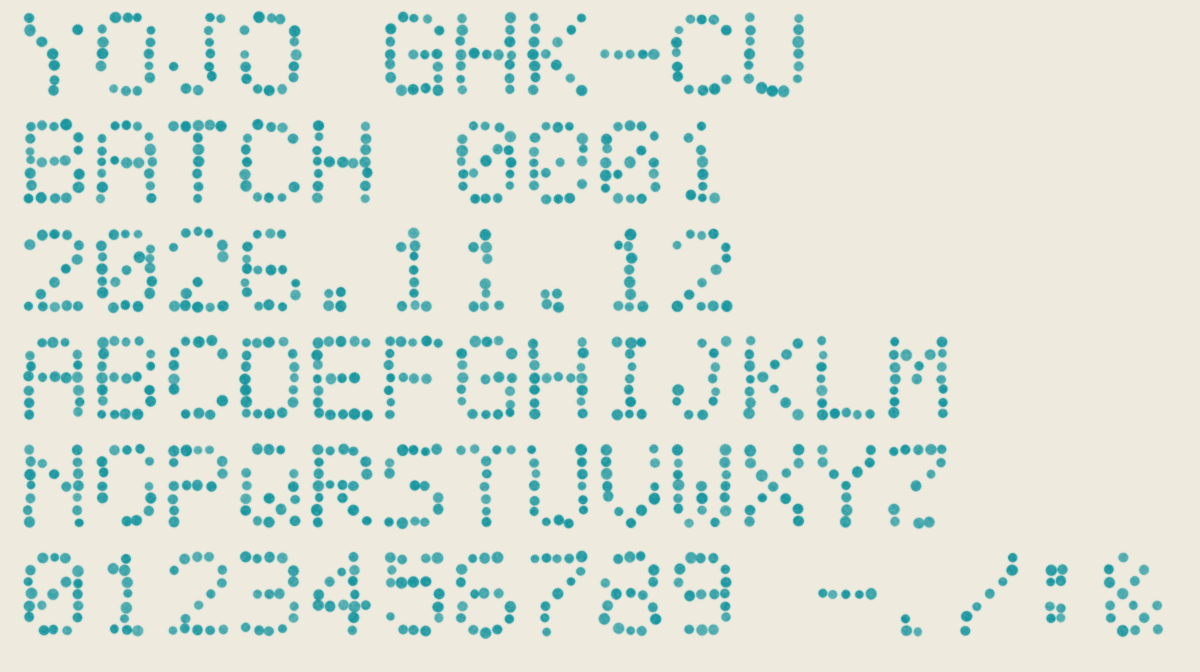
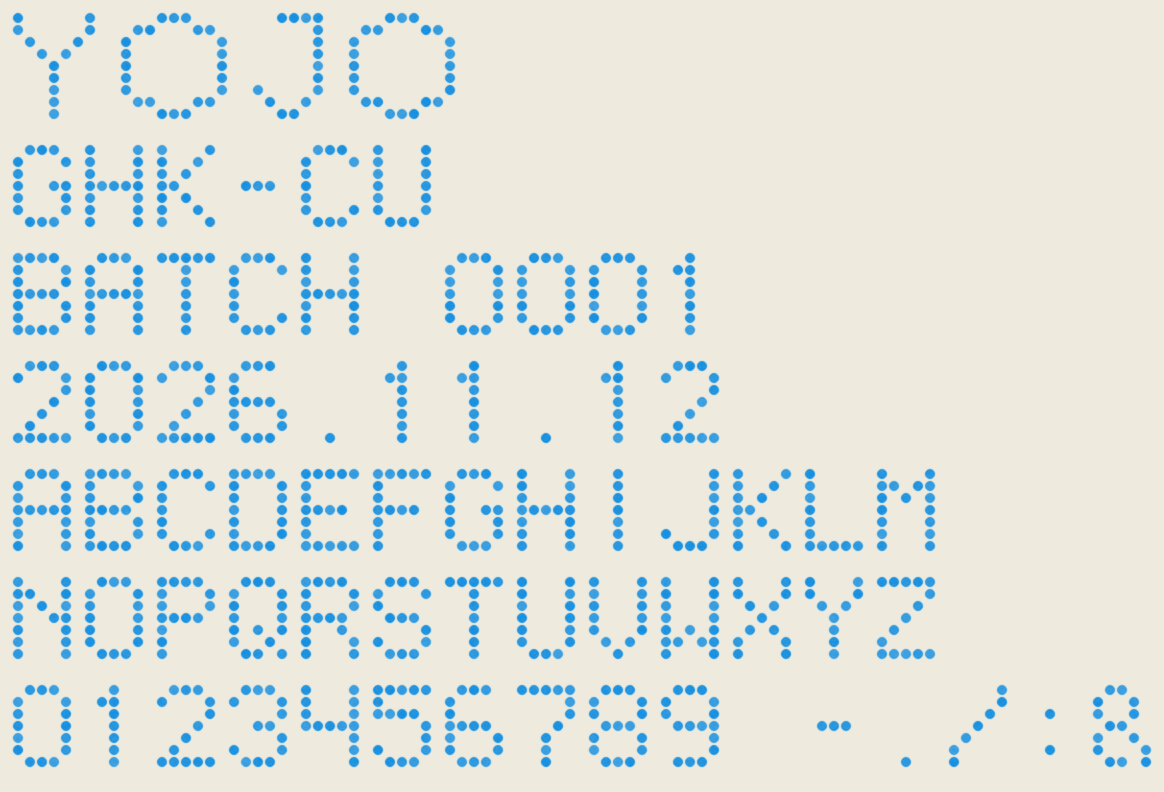
YOJO Batch v2: one rule set for every glyph, no random dropouts, drawn YOJO lockup; grid re-rendered
Claude-Session: https://claude.ai/code/session_01LTamVAmjQRnS3kntakEzcs

Changed region(s): [[0.0, 0.0, 0.8041, 0.9688], [0.6804, 0.8125, 0.9897, 0.9688], [0.4948, 0.0, 0.6804, 0.1562]]

diff --git a/yojo/model/stamp/glyphs.py b/yojo/model/stamp/glyphs.py
@@ -1,4 +1,7 @@
-# YOJO Batch: a 5x7 dot-matrix alphabet in the spirit of egg-farm inkjet stamps. '#' = dot.
+# YOJO Batch v2: 5x7 dot matrix, one rule set.
+#  - every letter 5 dots wide, 7 tall; strokes one dot thick
+#  - bowls and curves take rounded corners (the corner dot is dropped); straight joins stay square
+#  - no serifs, no flags: I, J, 1 are bare stems like the rest
 G = {
 'A': [".###.", "#...#", "#...#", "#####", "#...#", "#...#", "#...#"],
 'B': ["####.", "#...#", "#...#", "####.", "#...#", "#...#", "####."],
@@ -6,41 +9,46 @@ G = {
 'D': ["####.", "#...#", "#...#", "#...#", "#...#", "#...#", "####."],
 'E': ["#####", "#....", "#....", "####.", "#....", "#....", "#####"],
 'F': ["#####", "#....", "#....", "####.", "#....", "#....", "#...."],
-'G': [".###.", "#...#", "#....", "#.###", "#...#", "#...#", ".####"],
+'G': [".###.", "#...#", "#....", "#..##", "#...#", "#...#", ".###."],
 'H': ["#...#", "#...#", "#...#", "#####", "#...#", "#...#", "#...#"],
-'I': [".###.", "..#..", "..#..", "..#..", "..#..", "..#..", ".###."],
-'J': ["..###", "...#.", "...#.", "...#.", "#..#.", "#..#.", ".##.."],
+'I': ["..#..", "..#..", "..#..", "..#..", "..#..", "..#..", "..#.."],
+'J': ["....#", "....#", "....#", "....#", "....#", "#...#", ".###."],
 'K': ["#...#", "#..#.", "#.#..", "##...", "#.#..", "#..#.", "#...#"],
 'L': ["#....", "#....", "#....", "#....", "#....", "#....", "#####"],
-'M': ["#...#", "##.##", "#.#.#", "#.#.#", "#...#", "#...#", "#...#"],
+'M': ["#...#", "##.##", "#.#.#", "#...#", "#...#", "#...#", "#...#"],
 'N': ["#...#", "##..#", "#.#.#", "#..##", "#...#", "#...#", "#...#"],
 'O': [".###.", "#...#", "#...#", "#...#", "#...#", "#...#", ".###."],
 'P': ["####.", "#...#", "#...#", "####.", "#....", "#....", "#...."],
 'Q': [".###.", "#...#", "#...#", "#...#", "#.#.#", "#..#.", ".##.#"],
-'R': ["####.", "#...#", "#...#", "####.", "#.#..", "#..#.", "#...#"],
-'S': [".####", "#....", "#....", ".###.", "....#", "....#", "####."],
+'R': ["####.", "#...#", "#...#", "####.", "#..#.", "#...#", "#...#"],
+'S': [".###.", "#...#", "#....", ".###.", "....#", "#...#", ".###."],
 'T': ["#####", "..#..", "..#..", "..#..", "..#..", "..#..", "..#.."],
 'U': ["#...#", "#...#", "#...#", "#...#", "#...#", "#...#", ".###."],
 'V': ["#...#", "#...#", "#...#", "#...#", "#...#", ".#.#.", "..#.."],
-'W': ["#...#", "#...#", "#...#", "#.#.#", "#.#.#", "#.#.#", ".#.#."],
+'W': ["#...#", "#...#", "#...#", "#...#", "#.#.#", "##.##", "#...#"],
 'X': ["#...#", "#...#", ".#.#.", "..#..", ".#.#.", "#...#", "#...#"],
 'Y': ["#...#", "#...#", ".#.#.", "..#..", "..#..", "..#..", "..#.."],
 'Z': ["#####", "....#", "...#.", "..#..", ".#...", "#....", "#####"],
-'0': [".###.", "#...#", "#..##", "#.#.#", "##..#", "#...#", ".###."],
-'1': ["..#..", ".##..", "..#..", "..#..", "..#..", "..#..", ".###."],
+'0': [".###.", "#...#", "#...#", "#...#", "#...#", "#...#", ".###."],
+'1': ["..#..", ".##..", "..#..", "..#..", "..#..", "..#..", "..#.."],
 '2': [".###.", "#...#", "....#", "...#.", "..#..", ".#...", "#####"],
-'3': ["####.", "....#", "....#", ".###.", "....#", "....#", "####."],
-'4': ["...#.", "..##.", ".#.#.", "#..#.", "#####", "...#.", "...#."],
+'3': [".###.", "#...#", "....#", "..##.", "....#", "#...#", ".###."],
+'4': ["#...#", "#...#", "#...#", "#####", "....#", "....#", "....#"],
 '5': ["#####", "#....", "####.", "....#", "....#", "#...#", ".###."],
 '6': [".###.", "#....", "#....", "####.", "#...#", "#...#", ".###."],
-'7': ["#####", "....#", "...#.", "..#..", ".#...", ".#...", ".#..."],
+'7': ["#####", "....#", "....#", "...#.", "..#..", "..#..", "..#.."],
 '8': [".###.", "#...#", "#...#", ".###.", "#...#", "#...#", ".###."],
 '9': [".###.", "#...#", "#...#", ".####", "....#", "....#", ".###."],
-'-': [".....", ".....", ".....", "#####", ".....", ".....", "....."],
-'.': [".....", ".....", ".....", ".....", ".....", ".##..", ".##.."],
+'-': [".....", ".....", ".....", ".###.", ".....", ".....", "....."],
+'.': [".....", ".....", ".....", ".....", ".....", ".....", "..#.."],
 '/': ["....#", "....#", "...#.", "..#..", ".#...", "#....", "#...."],
 '·': [".....", ".....", ".....", "..#..", ".....", ".....", "....."],
-':': [".....", ".##..", ".##..", ".....", ".##..", ".##..", "....."],
-'&': [".##..", "#..#.", "#.#..", ".#...", "#.#.#", "#..#.", ".##.#"],
+':': [".....", ".....", "..#..", ".....", ".....", "..#..", "....."],
+'&': [".##..", "#..#.", "#..#.", ".##..", "#..#.", "#...#", ".##.#"],
 ' ': [".....", ".....", ".....", ".....", ".....", ".....", "....."],
 }
+# The YOJO lockup, drawn on its own 9-high grid: wide round O's like the wordmark, a Y with open arms, a J with a full hook.
+_Y = ["#.....#", "#.....#", ".#...#.", "..#.#..", "...#...", "...#...", "...#...", "...#...", "...#..."]
+_O = ["...###...", ".##...##.", "#.......#", "#.......#", "#.......#", "#.......#", "#.......#", ".##...##.", "...###..."]
+_J = ["..####", ".....#", ".....#", ".....#", ".....#", ".....#", "#....#", ".#..#.", "..##.."]
+YOJO = ["..".join(p[r] for p in (_Y, _O, _J, _O)) for r in range(9)]

diff --git a/yojo/model/stamp/stamp.py b/yojo/model/stamp/stamp.py
@@ -1,29 +1,37 @@
-# Render text in YOJO Batch as an inkjet egg stamp: round dots, uneven ink, a little bleed and drop-out.
-import sys, math, random
+# Render YOJO Batch as an inkjet stamp. Letterforms are fixed; only the ink varies (density, a hair of bleed).
+import sys, os, random
 import numpy as np
 from PIL import Image, ImageDraw, ImageFilter
-sys.path.insert(0, __import__('os').path.dirname(__file__)); from glyphs import G
-def stamp(lines, dot=10, pitch=12, seed=1, ink=(0, 0, 0), dropout=0.02, align='left', track=1):
+sys.path.insert(0, os.path.dirname(os.path.abspath(__file__))); from glyphs import G, YOJO
+def _draw(rows_list, dot, pitch, seed, ink_var):
     rnd = random.Random(seed)
-    cols = max(len(l) for l in lines); W = int((cols * (5 + track)) * pitch + 4 * pitch); H = int(len(lines) * 9 * pitch + 2 * pitch)
-    S = 3; im = Image.new('L', (W * S, H * S), 0); d = ImageDraw.Draw(im)
-    for li, line in enumerate(lines):
-        x0 = 2 * pitch if align == 'left' else (W - len(line) * (5 + track) * pitch) / 2
-        for ci, ch in enumerate(line.upper()):
-            g = G.get(ch, G[' '])
-            for r, row in enumerate(g):
-                for c, v in enumerate(row):
-                    if v != '#' or rnd.random() < dropout: continue
-                    cx = x0 + (ci * (5 + track) + c + 0.5) * pitch + rnd.gauss(0, 0.07 * pitch)
-                    cy = pitch + (li * 9 + r + 0.5) * pitch + rnd.gauss(0, 0.07 * pitch)
-                    rr = dot / 2 * rnd.uniform(0.82, 1.12); a = int(255 * rnd.uniform(0.72, 1.0))
-                    d.ellipse([(cx - rr) * S, (cy - rr * rnd.uniform(0.9, 1.1)) * S, (cx + rr) * S, (cy + rr) * S], fill=a)
-    im = im.resize((W, H), Image.LANCZOS).filter(ImageFilter.GaussianBlur(0.6))
+    W = int(max(len(r[0]) for r in rows_list) * pitch + 2 * pitch); H = int(sum(len(r) + 2 for r in rows_list) * pitch + pitch)
+    S = 3; im = Image.new('L', (W * S, H * S), 0); d = ImageDraw.Draw(im); y0 = pitch
+    for rows in rows_list:
+        for r, row in enumerate(rows):
+            for c, v in enumerate(row):
+                if v != '#': continue
+                cx = pitch + (c + 0.5) * pitch; cy = y0 + (r + 0.5) * pitch; rr = dot / 2
+                a = int(255 * (1 - ink_var * rnd.random()))
+                d.ellipse([(cx - rr) * S, (cy - rr) * S, (cx + rr) * S, (cy + rr) * S], fill=a)
+        y0 += (len(rows) + 2) * pitch
+    im = im.resize((W, H), Image.LANCZOS).filter(ImageFilter.GaussianBlur(0.5))
     a = np.asarray(im, np.float32) / 255
-    grain = np.asarray(Image.effect_noise((W, H), 60).filter(ImageFilter.GaussianBlur(0.8)), np.float32) / 255
-    a = np.clip(a * (0.75 + 0.5 * grain), 0, 1)
+    grain = np.asarray(Image.effect_noise((W, H), 40).filter(ImageFilter.GaussianBlur(0.7)), np.float32) / 255
+    a = np.clip(a * (0.86 + 0.28 * grain), 0, 1)
     return Image.fromarray((a * 255).astype(np.uint8))
+def text_rows(line, track=1):
+    rows = ['' for _ in range(7)]
+    for i, ch in enumerate(line.upper()):
+        g = G.get(ch, G[' '])
+        for r in range(7): rows[r] += g[r] + ('.' * track if i < len(line) - 1 else '')
+    return rows
+def stamp(lines, dot=9.5, pitch=12, seed=1, ink_var=0.18, yojo=False):
+    blocks = ([YOJO] if yojo else []) + [text_rows(l) for l in lines]
+    return _draw(blocks, dot, pitch, seed, ink_var)
 if __name__ == '__main__':
-    s = stamp(['YOJO GHK-CU', 'BATCH 0001', '2026.11.12', 'ABCDEFGHIJKLM', 'NOPQRSTUVWXYZ', '0123456789 -./:&'], seed=3)
+    s = stamp(['GHK-CU', 'BATCH 0001', '2026.11.12', 'ABCDEFGHIJKLM', 'NOPQRSTUVWXYZ', '0123456789 -./:&'], seed=3, yojo=True)
     s.save('specimen-mask.png')
-    rgb = Image.new('RGB', s.size, (238, 235, 222)); ink = Image.new('RGB', s.size, (24, 150, 160)); rgb.paste(ink, (0, 0), s); rgb.save('specimen.png')
+    rgb = Image.new('RGB', s.size, (238, 235, 222)); rgb.paste(Image.new('RGB', s.size, (22, 143, 224)), (0, 0), s); rgb.save('specimen.png')
+    # before / after for the same line
+    old = Image.open('specimen_v1.png') if os.path.exists('specimen_v1.png') else None
